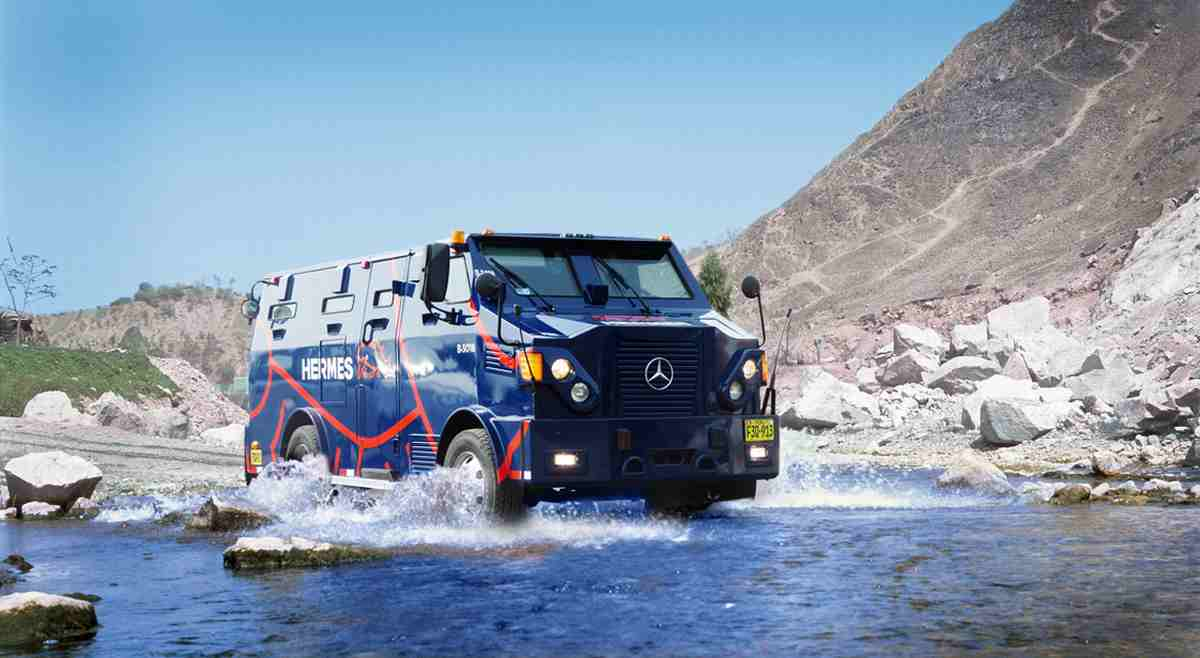
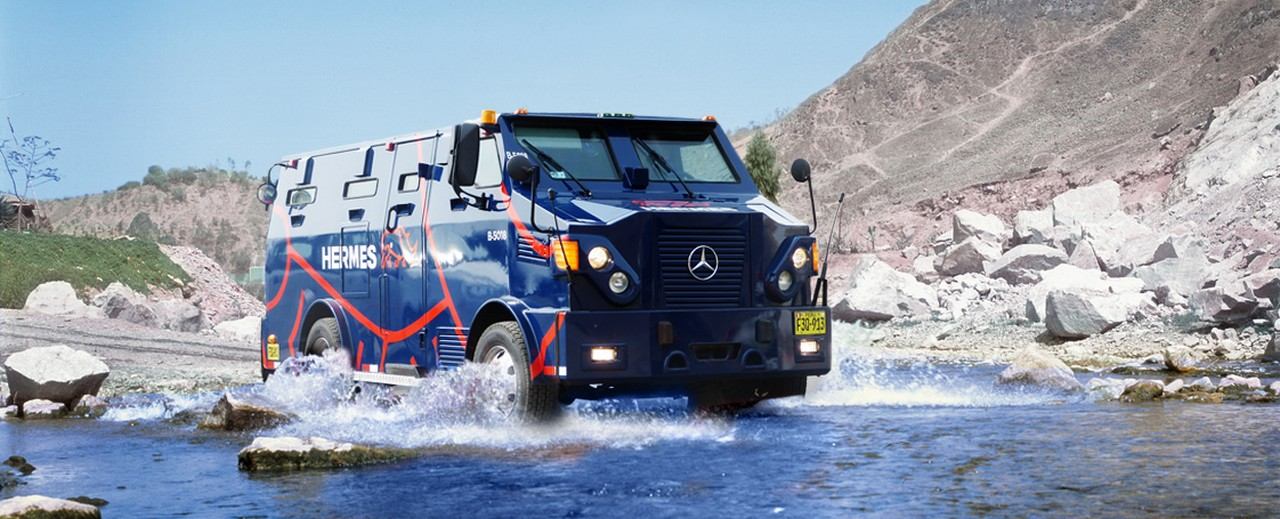
update slider

diff --git a/_includes/header.html b/_includes/header.html
@@ -64,7 +64,7 @@
             <a class="dropdown-item" href="{% link adm-puntos-atencion.html %}">Administración de puntos de atención</a>
             <a class="dropdown-item" href="{% link adm-locales-agencias.html %}">Administración de locales y agencias</a>
             <a class="dropdown-item" href="{% link atencion-reclamos-requerimientos.html %}">Atención comercial y atención de reclamos y requerimientos</a>
-            <a class="dropdown-item" href="{% link pagos-moviles.html %}">Pagos móviles</a>
+            
           </div>
         </li>
         <li class="nav-item dropdown">
@@ -188,9 +188,7 @@
     <li class="list-group-item list-group-cozy">
       <a href="{% link atencion-reclamos-requerimientos.html %}">Atención comercial y atención de<br>reclamos y requerimientos</a>
     </li>
-    <li class="list-group-item list-group-cozy">
-      <a href="{% link pagos-moviles.html %}">Pagos móviles</a>
-    </li>
+
   </ul>
 </div>
 <div class="d-none py-3 px-2 popover-blue-links" id="documentos-popover">

diff --git a/js/main.js b/js/main.js
@@ -124,9 +124,9 @@ $(".carousel-item[data-background-image]").each(function () {
   }
 
   $el.css('backgroundImage', 'url(' + bgImg + ')');
-  $el.css('backgroundPosition', 'center');
-  $el.css('backgroundSize', '100% 100%')
-  $el.css('backgroundRepeat', 'no-repeat');
+  // $el.css('backgroundPosition', 'center');
+  // $el.css('backgroundSize', '100% 100%')
+  // $el.css('backgroundRepeat', 'no-repeat');
 
   $el.addClass('holderjs');
 });

diff --git a/exportacion-metales.html b/exportacion-metales.html
@@ -5,7 +5,7 @@ layout: home
 
 <div id="mainSection">
   <!-- aqui cambiamos los slides, por la data del yml. -->
-  {% include carousel.html slides=site.data.carousel.gestion_boveda %}
+  {% include carousel.html slides=site.data.carousel.exportacion_metales %}
   
   <div class="container mt-4">
     <h4 class="hermes-heading">Exportación de Metales</h4>

diff --git a/css/style.scss b/css/style.scss
@@ -237,7 +237,7 @@ hr.red-line{
 
 .carousel-item[data-background-image]{
   background-position: center;
-  background-size: 100% 100% !important;
+  background-size: cover;
 
   img {
     display: block;
